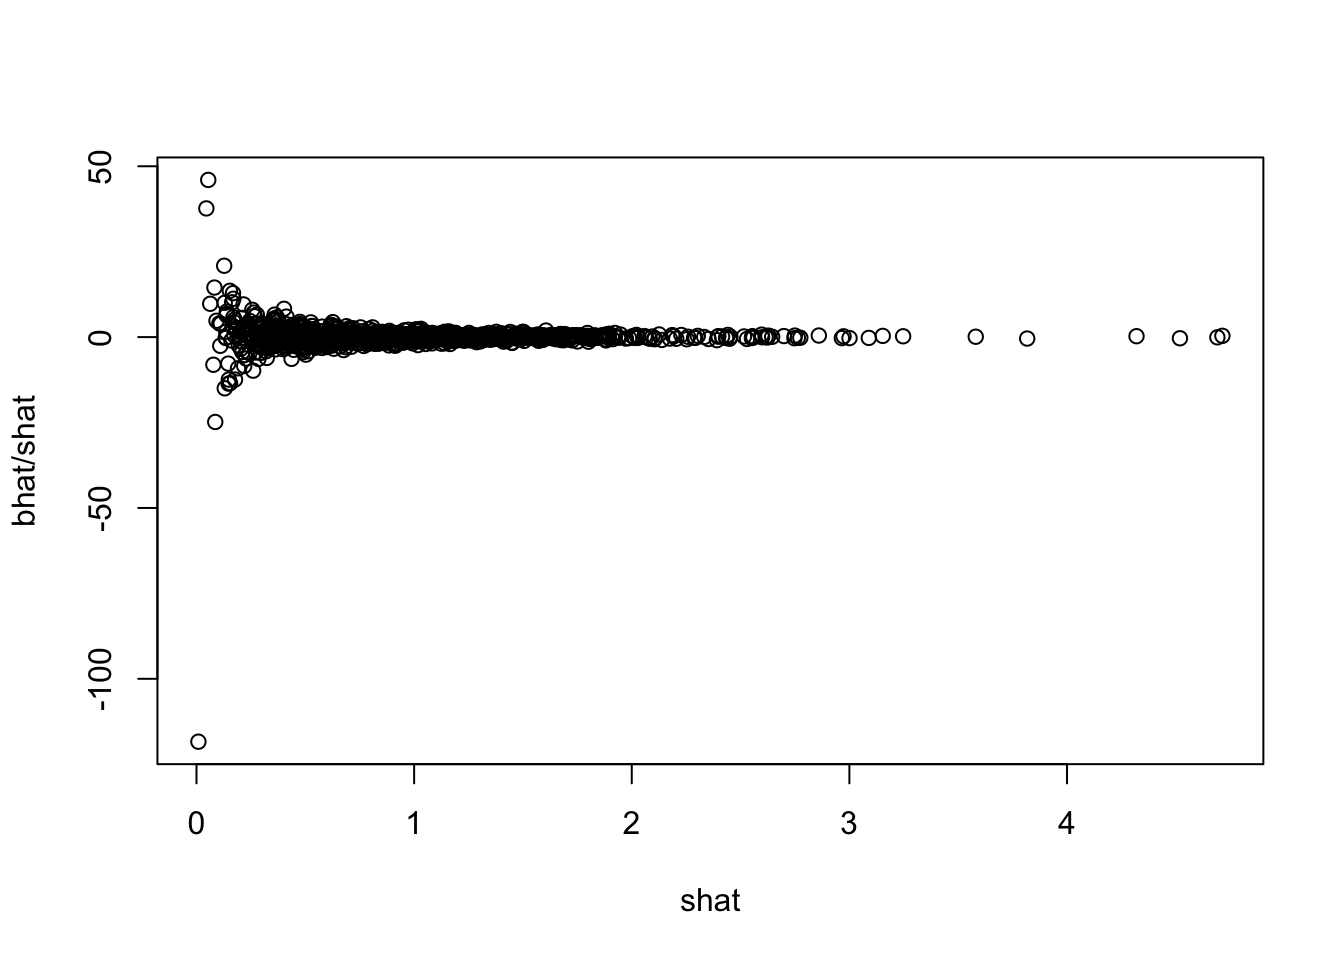
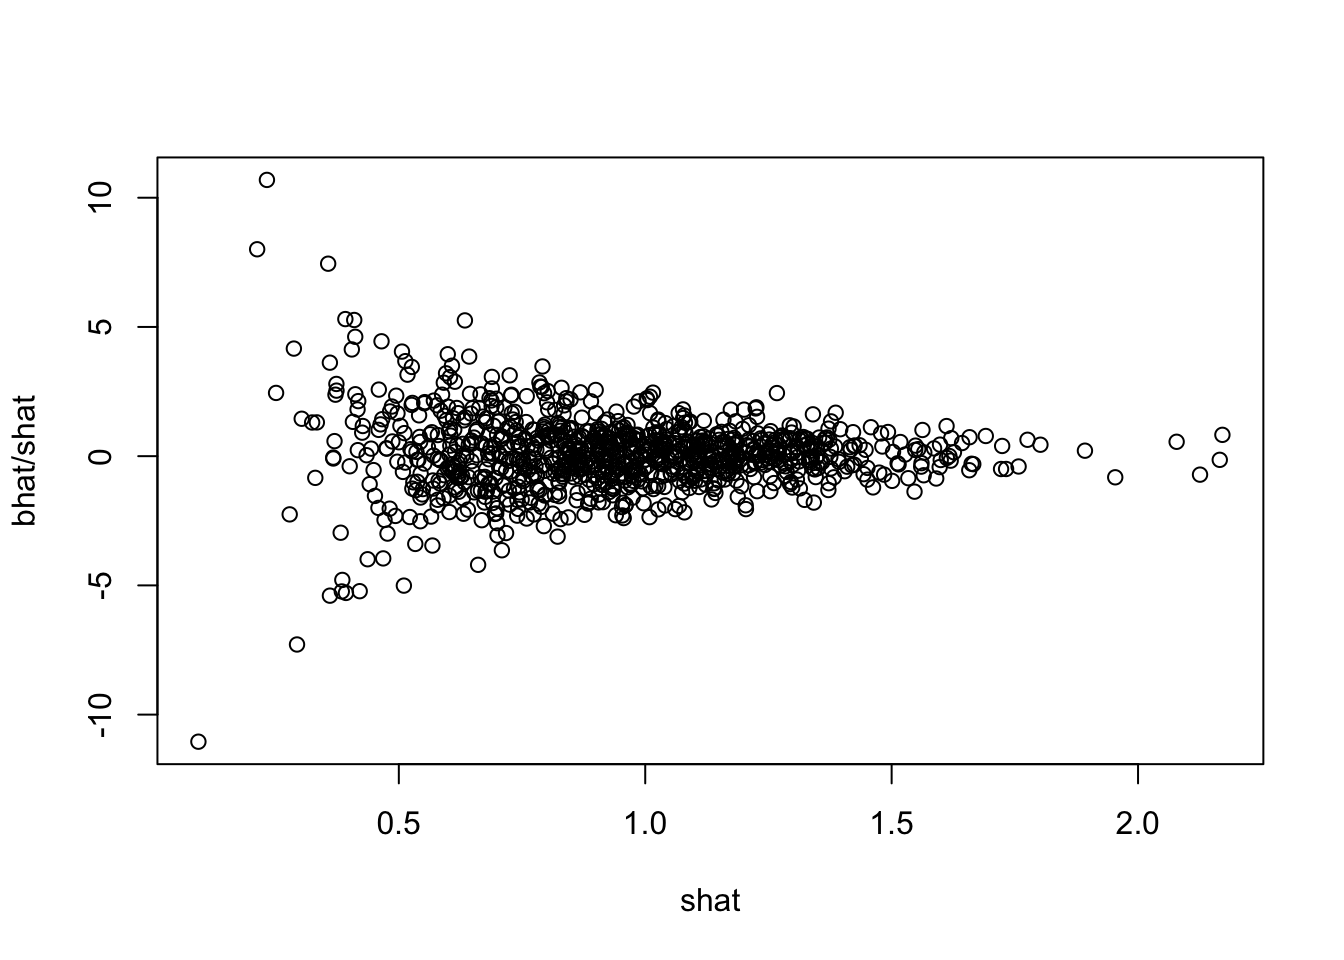
Build site.

diff --git a/docs/tdist.html b/docs/tdist.html
@@ -323,7 +323,7 @@ div.section {
 </div>
 
 
-<p><strong>Last updated:</strong> 2018-08-24</p>
+<p><strong>Last updated:</strong> 2018-08-27</p>
 <strong>workflowr checks:</strong> <small>(Click a bullet for more information)</small>
 <ul>
 <li>
@@ -347,7 +347,7 @@ div.section {
 </details>
 </li>
 <li>
-<p><details> <summary> <strong style="color:blue;">✔</strong> <strong>Repository version:</strong> <a href="https://github.com/stephens999/misc/tree/dcfd01e016fbdd46f76c108ed0362aa7cf7d1fc6" target="_blank">dcfd01e</a> </summary></p>
+<p><details> <summary> <strong style="color:blue;">✔</strong> <strong>Repository version:</strong> <a href="https://github.com/stephens999/misc/tree/34bda157ce931ae39d30819c054d7818a1a7754f" target="_blank">34bda15</a> </summary></p>
 Great! You are using Git for version control. Tracking code development and connecting the code version to the results is critical for reproducibility. The version displayed above was the version of the Git repository at the time these results were generated. <br><br> Note that you need to be careful to ensure that all relevant files for the analysis have been committed to Git prior to generating the results (you can use <code>wflow_publish</code> or <code>wflow_git_commit</code>). workflowr only checks the R Markdown file, but you know if there are other scripts or data files that it depends on. Below is the status of the Git repository when the results were generated:
 <pre><code>
 Ignored files:
@@ -489,6 +489,40 @@ Message
 Rmd
 </td>
 <td style="text-align:left;">
+<a href="https://github.com/stephens999/misc/blob/34bda157ce931ae39d30819c054d7818a1a7754f/analysis/tdist.Rmd" target="_blank">34bda15</a>
+</td>
+<td style="text-align:left;">
+stephens999
+</td>
+<td style="text-align:left;">
+2018-08-27
+</td>
+<td style="text-align:left;">
+workflowr::wflow_publish(“tdist.Rmd”)
+</td>
+</tr>
+<tr>
+<td style="text-align:left;">
+html
+</td>
+<td style="text-align:left;">
+<a href="https://cdn.rawgit.com/stephens999/misc/48b97b0dbbf8c3e06119647fa9041be1a6001443/docs/tdist.html" target="_blank">48b97b0</a>
+</td>
+<td style="text-align:left;">
+stephens999
+</td>
+<td style="text-align:left;">
+2018-08-24
+</td>
+<td style="text-align:left;">
+Build site.
+</td>
+</tr>
+<tr>
+<td style="text-align:left;">
+Rmd
+</td>
+<td style="text-align:left;">
 <a href="https://github.com/stephens999/misc/blob/dcfd01e016fbdd46f76c108ed0362aa7cf7d1fc6/analysis/tdist.Rmd" target="_blank">dcfd01e</a>
 </td>
 <td style="text-align:left;">
@@ -509,18 +543,48 @@ workflowr::wflow_publish(“tdist.Rmd”)
 <div id="introduction" class="section level2">
 <h2>Introduction</h2>
 <p>I want to illustrate the fact that <span class="math display">\[\hat\beta/\hat{s} \sim t\]</span> does not imply <span class="math display">\[\hat\beta/\hat{s} | \hat{s} \sim t.\]</span></p>
-<p>Consider even the simplest case of true <span class="math inline">\(s_j=1\)</span> and <span class="math inline">\(\beta=0\)</span> (and df of <span class="math inline">\(d=5\)</span>). So <span class="math display">\[\hat{\beta} \sim N(0,1)\]</span> and <span class="math display">\[\hat{s} \sim \chi_d^2/d.\]</span></p>
+<p>Consider even the simplest case of true <span class="math inline">\(s_j=1\)</span> and <span class="math inline">\(\beta=0\)</span> (and df of <span class="math inline">\(d=5\)</span>). So <span class="math display">\[\hat{\beta} \sim N(0,1)\]</span> and <span class="math display">\[\hat{s}^2 \sim \chi_d^2/d.\]</span></p>
 <pre class="r"><code>bhat = rnorm(1000)
 d=5
-shat = rchisq(1000,df=d)/d
+shat = sqrt(rchisq(1000,df=d)/d)
 plot(shat,bhat/shat)</code></pre>
 <p><img src="figure/tdist.Rmd/unnamed-chunk-1-1.png" width="672" style="display: block; margin: auto;" /></p>
+<details> <summary><em>Expand here to see past versions of unnamed-chunk-1-1.png:</em></summary>
+<table style="border-collapse:separate; border-spacing:5px;">
+<thead>
+<tr>
+<th style="text-align:left;">
+Version
+</th>
+<th style="text-align:left;">
+Author
+</th>
+<th style="text-align:left;">
+Date
+</th>
+</tr>
+</thead>
+<tbody>
+<tr>
+<td style="text-align:left;">
+<a href="https://github.com/stephens999/misc/blob/48b97b0dbbf8c3e06119647fa9041be1a6001443/docs/figure/tdist.Rmd/unnamed-chunk-1-1.png" target="_blank">48b97b0</a>
+</td>
+<td style="text-align:left;">
+stephens999
+</td>
+<td style="text-align:left;">
+2018-08-24
+</td>
+</tr>
+</tbody>
+</table>
+<p></details></p>
 <p>In fact, it should be obvious in this case that <span class="math display">\[\hat{\beta}/\hat{s} | \hat{s} \sim N(0, \hat{s}^{-2})\]</span></p>
 <p>Apply ash:</p>
 <pre class="r"><code>library(&quot;ashr&quot;)
 b.ash = ash(bhat,shat,df=5)
 sum(get_lfsr(b.ash)&lt;0.05)</code></pre>
-<pre><code>[1] 54</code></pre>
+<pre><code>[1] 4</code></pre>
 <p>Now try shrinking variances first:</p>
 <pre class="r"><code>library(&quot;vashr&quot;)</code></pre>
 <pre><code>Loading required package: SQUAREM</code></pre>
@@ -528,9 +592,39 @@ sum(get_lfsr(b.ash)&lt;0.05)</code></pre>
 <pre class="r"><code>s.vash = vash(shat,df=5,singlecomp = TRUE)
 plot(s.vash$sd.post, shat)</code></pre>
 <p><img src="figure/tdist.Rmd/unnamed-chunk-3-1.png" width="672" style="display: block; margin: auto;" /></p>
+<details> <summary><em>Expand here to see past versions of unnamed-chunk-3-1.png:</em></summary>
+<table style="border-collapse:separate; border-spacing:5px;">
+<thead>
+<tr>
+<th style="text-align:left;">
+Version
+</th>
+<th style="text-align:left;">
+Author
+</th>
+<th style="text-align:left;">
+Date
+</th>
+</tr>
+</thead>
+<tbody>
+<tr>
+<td style="text-align:left;">
+<a href="https://github.com/stephens999/misc/blob/48b97b0dbbf8c3e06119647fa9041be1a6001443/docs/figure/tdist.Rmd/unnamed-chunk-3-1.png" target="_blank">48b97b0</a>
+</td>
+<td style="text-align:left;">
+stephens999
+</td>
+<td style="text-align:left;">
+2018-08-24
+</td>
+</tr>
+</tbody>
+</table>
+<p></details></p>
 <pre class="r"><code>b.ash2 = ash(bhat,s.vash$sd.post,df=2*s.vash$PosteriorShape[1])
 sum(get_lfsr(b.ash2)&lt;0.05)</code></pre>
-<pre><code>[1] 9</code></pre>
+<pre><code>[1] 0</code></pre>
 </div>
 <div id="session-information" class="section level2">
 <h2>Session information</h2>
